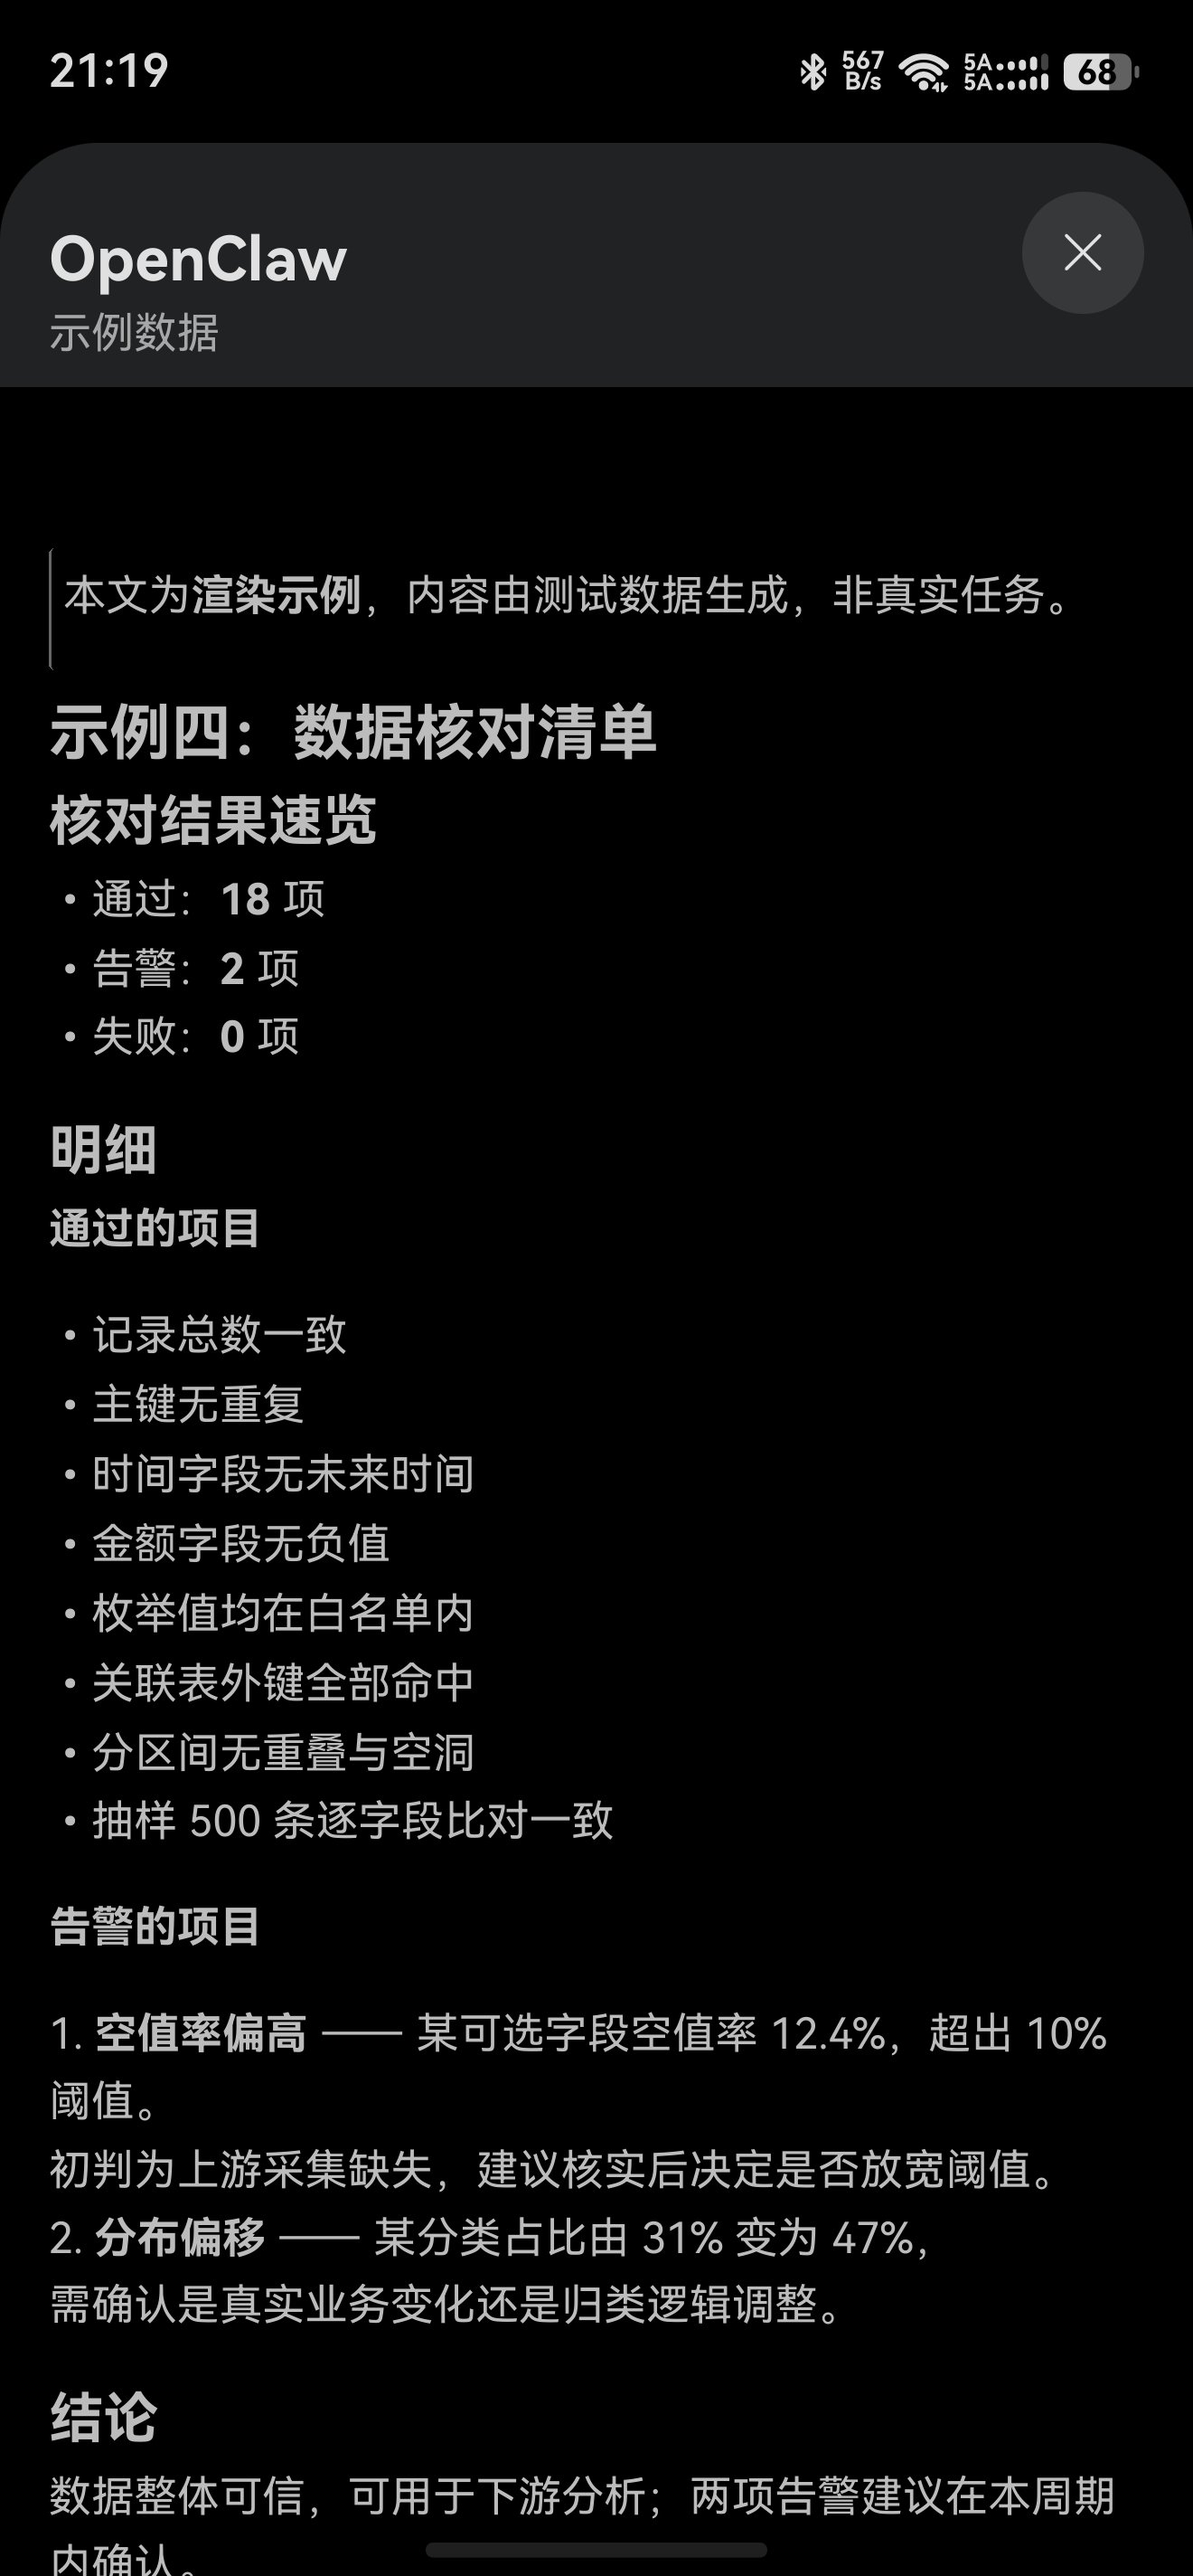
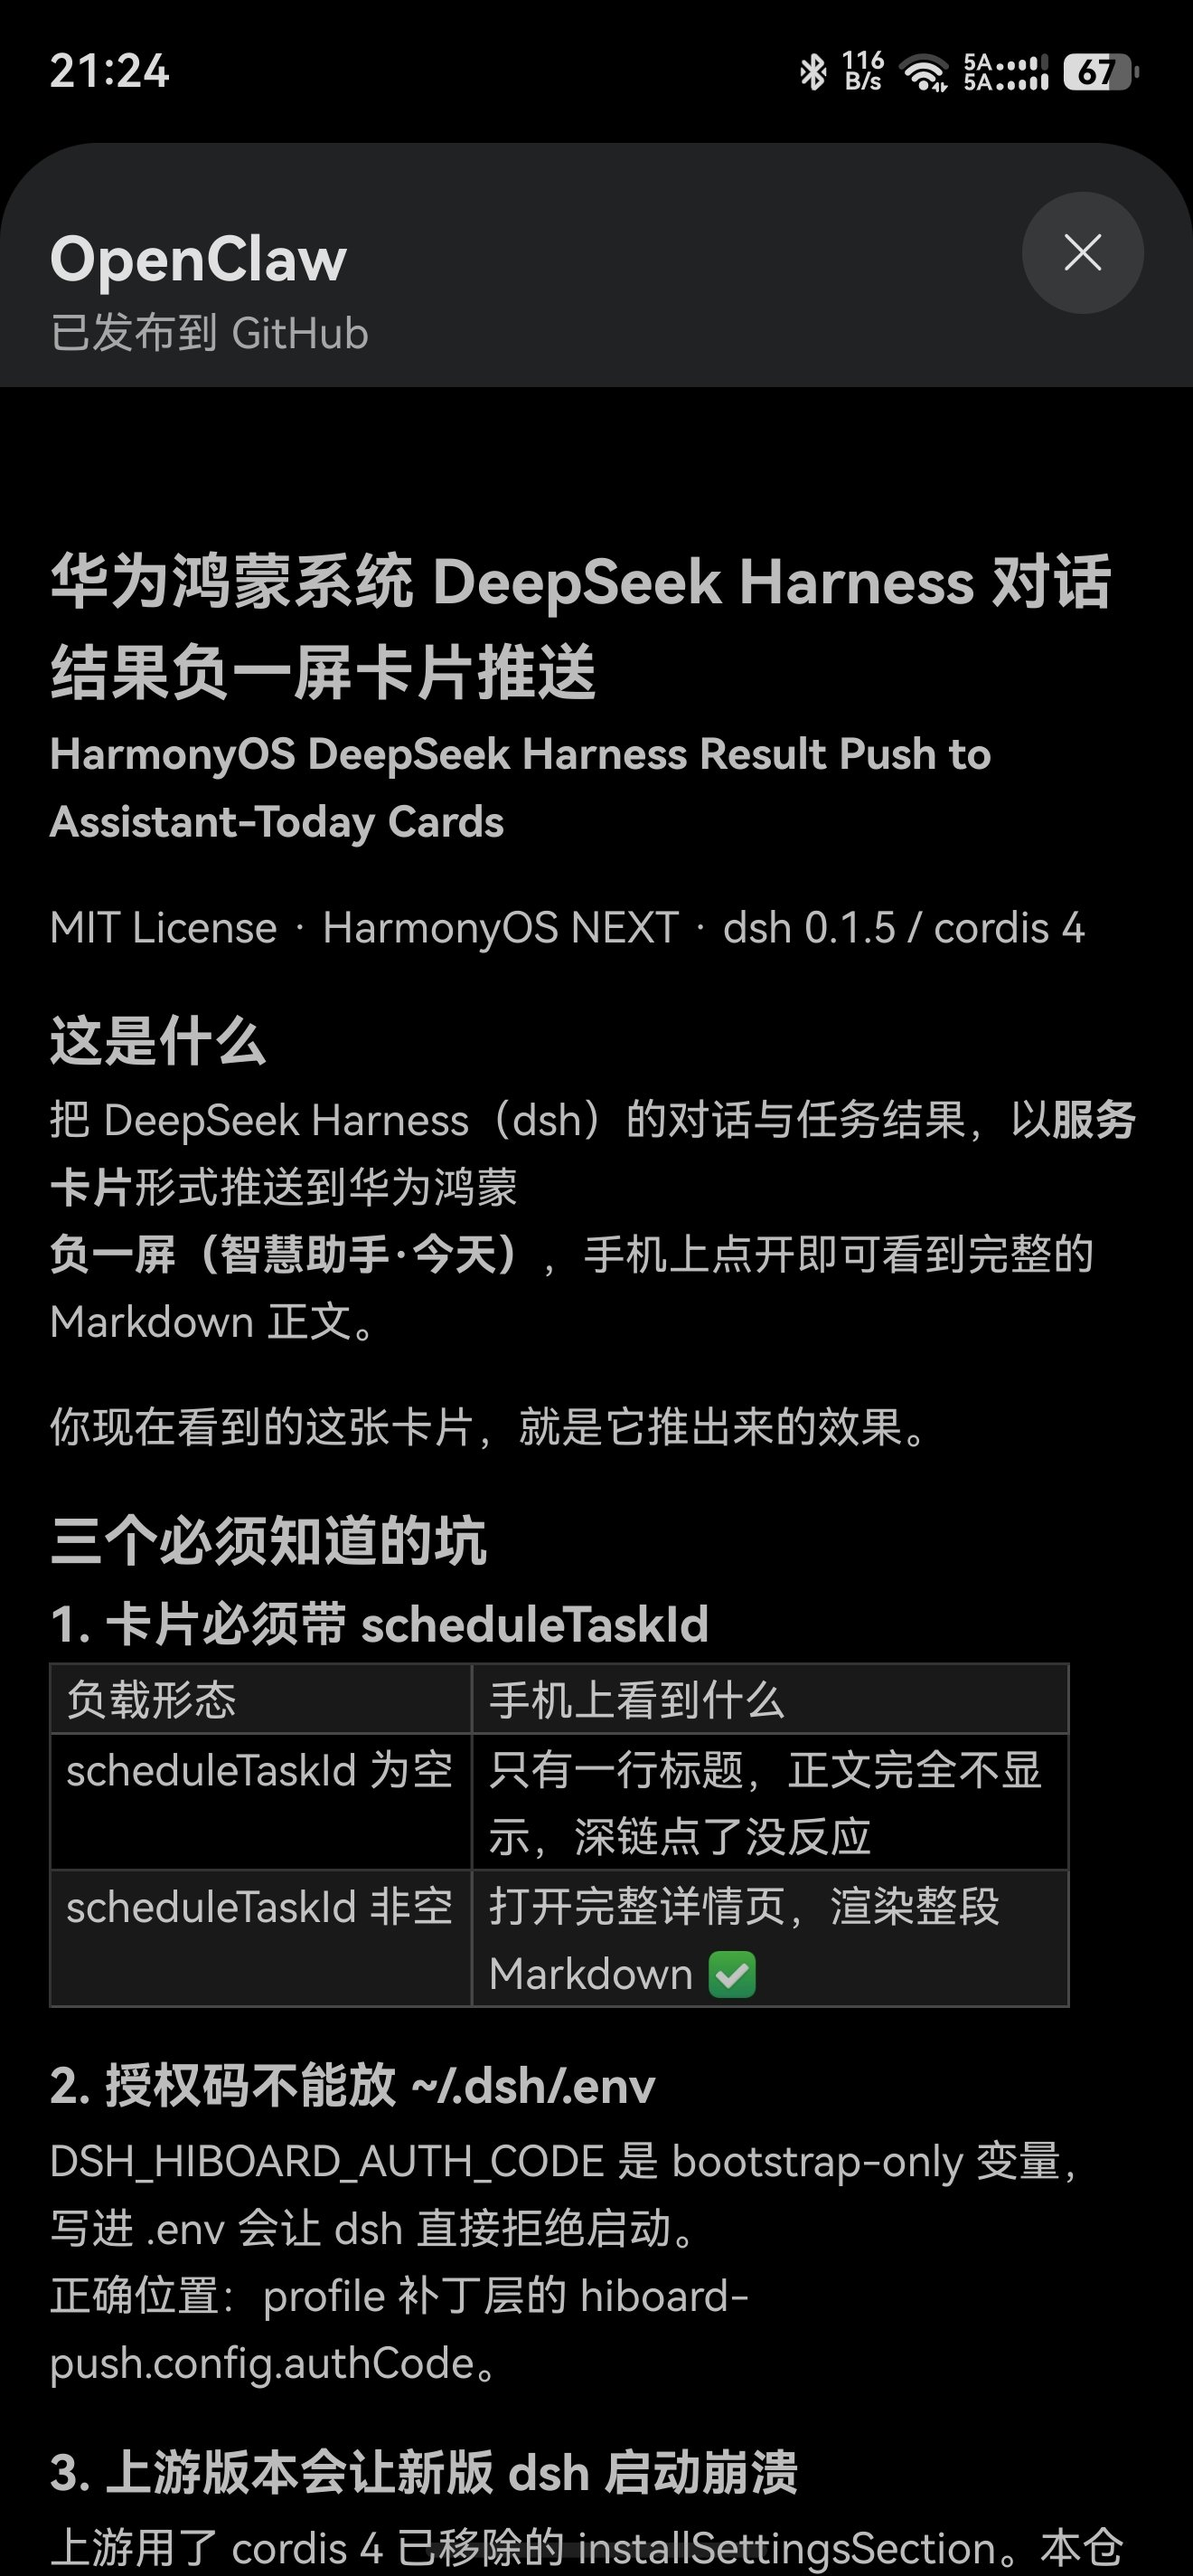
docs: correct the Markdown table finding (tables DO render) and update the detail-page screenshot

diff --git a/README.md b/README.md
@@ -33,14 +33,14 @@
 <td align="center" width="33%">
 <img src="docs/images/card-detail.jpg" alt="卡片详情页完整 Markdown">
 <br><b>③ 点开详情页</b><br>
-<sub>完整 Markdown 正文 —— 这正是必须传 schedule_id 的原因</sub>
+<sub>完整 Markdown 正文，含渲染正常的表格 —— 这正是必须传 schedule_id 的原因</sub>
 </td>
 </tr>
 </table>
 
 > **测试环境**：HarmonyOS **7.0.0.107**，**仅测试了手机端**（未验证平板 / 折叠屏 / 手表等形态）。
-> 截图中的「示例」卡片为测试数据，非真实任务记录。
-> Markdown 支持范围见 [兼容性](#兼容性) 一节的渲染实测表。
+> ③ 是项目介绍卡；①② 里带「示例」字样的卡片为测试数据，非真实任务记录。
+> Markdown 支持范围与表格写法要求见 [兼容性](#兼容性) 一节。
 
 
 ---
@@ -214,28 +214,25 @@ dsh 会在**每个会话**里自动加载它。现成模板见
 
 | Markdown 语法 | 是否渲染 | 说明 |
 |---|---|---|
-| `#` `##` 标题 | ✅ | 各级标题正常 |
+| `#` `##` 标题 | ✅ | 各级标题正常，长标题会自动换行 |
 | `-` 无序列表 | ✅ | 缩进与符号正常 |
 | `1.` 有序列表 | ✅ | 编号正常 |
 | `**加粗**` | ✅ | 正常 |
 | `>` 引用块 | ✅ | 左侧竖线样式正常 |
+| **表格 `\| a \| b \|`** | ✅ **支持** | 见下方写法要求 |
 | `` `行内代码` `` | 未单独验证 | 建议少量使用 |
-| **表格 `\| a \| b \|`** | ❌ **不渲染** | **表格语法不会被解析**，会退化成纯文本逐行显示，表头与分隔行也会原样出现。**请改用有序/无序列表表达二维数据。** |
-| 代码块 ```` ``` ```` | 未单独验证 | 长代码块在窄屏上可读性差，建议只放结论 |
+| 代码块 ```` ``` ```` | 未单独验证 | 长代码块在窄屏可读性差，建议只放结论 |
 
-**实践建议**：卡片正文优先用「标题 + 列表 + 加粗 + 引用」这四种已验证的语法，
-把表格拆成一节一个列表，例如：
+**表格写法要求**（实测：格式正确即可正常渲染，[效果图 ③](docs/images/card-detail.jpg) 中即有一张渲染正常的表格）：
 
-```
-## 各节点状态
+1. 表格前**必须留一个空行**，否则可能被当作普通文本
+2. 必须有**表头行** + **分隔行** `|---|---|`，两者都不能省
+3. 每行的**竖线数量要一致**（列数与表头匹配）
+4. 单元格内容**不要跨行**；内容过长会让列被挤窄，建议精简措辞
 
-- 华东一：99.99%，23 ms，正常
-- 华北二：99.97%，31 ms，正常
-- 华南一：99.88%，45 ms，观察
-```
+`content` 会被原样上传、平台按 Markdown 渲染，因此**正文里的换行要写成 `\n`**
+（本插件的 `normalizeContent` 也会把误转义的 `\n` 还原成真实换行）。
 
-> 表格这个结论来自真机截图（负一屏详情页把表格显示成了逐行文本）。
-> 如果后续 HarmonyOS 版本补上了表格渲染，欢迎提 Issue 更正。
 
 
 ---
